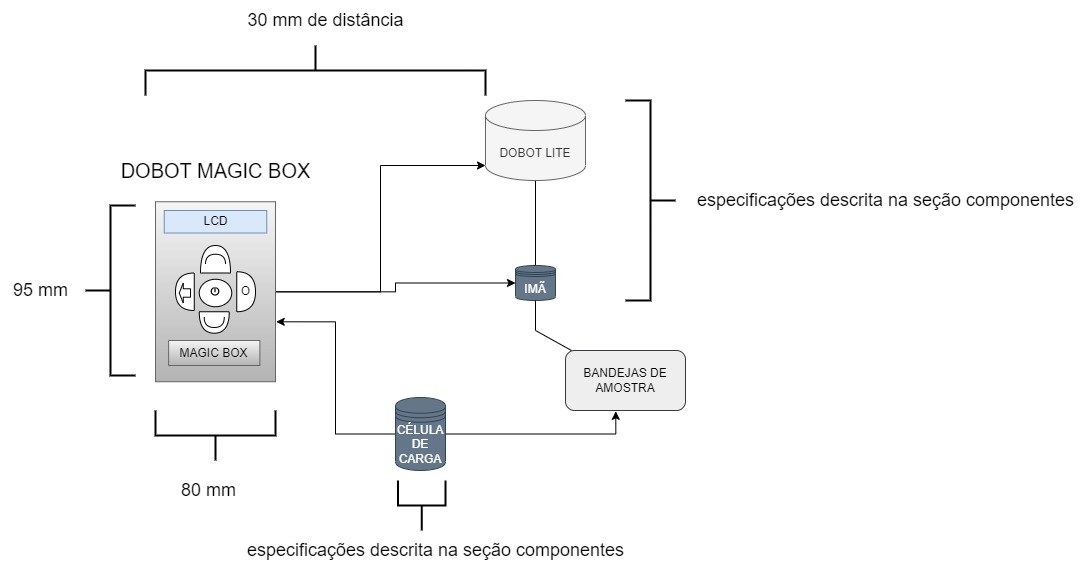
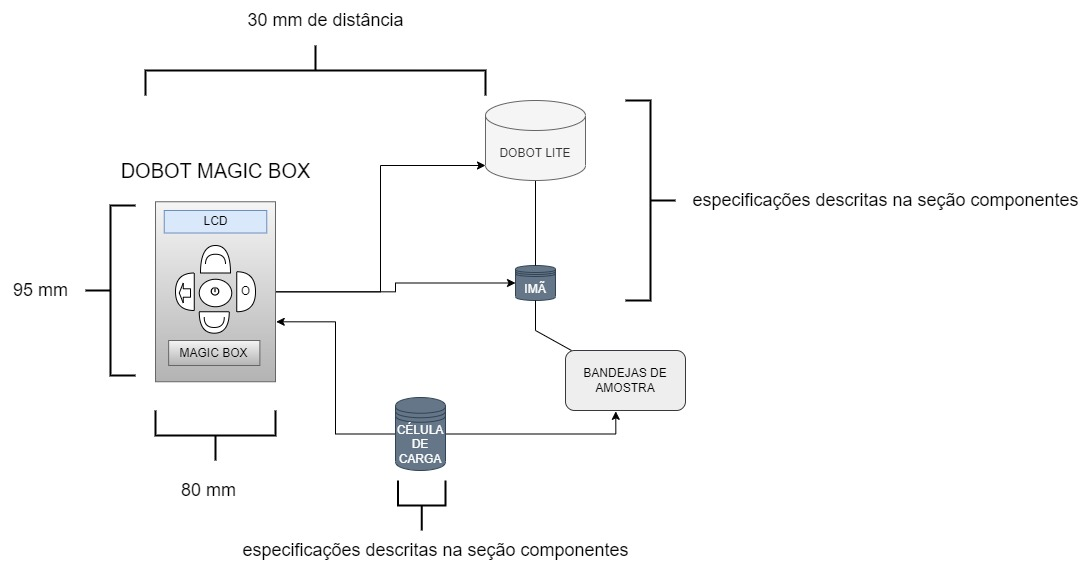
esquema_inter_definitivo
interface corrigida.

diff --git a/docs/index.md b/docs/index.md
@@ -305,7 +305,7 @@ A matriz de oceano Azul é uma análise feita sobre a empresa e a solução prop
 1. Eu, como engenheiro responsável pelo laboratório do IPT, desejo que a amostra analisada seja de maior confiabilidade do que possui hoje em dia.
 2. Eu, como engenheiro responsável pelo laboratório do IPT, desejo que a amostra seja analisada de maneira mais rápida para maior satisfação dos clientes.
 3. Eu, como engenheiro responsável pelo laboratório do IPT, desejo que a aplicação seja de fácil manutenção para não parar por muito tempo o atendimento dos clientes do laboratório.
-4. Eu, como engenheiro responsável pelo laboratório do IPT, desejo que a interface da aplicação seja simples e que eu consiga fazer todas as alterações possíveis por meio de uma tela LCD.
+4. Eu, como engenheiro responsável pelo laboratório do IPT, desejo que a interface da aplicação seja simples e que eu consiga fazer todas as alterações possíveis por meio do Magic Box.
 
 # Arquitetura do Sistema
 
@@ -576,6 +576,25 @@ O Magic Box atua como um microcontrolador capaz de rodar scripts que são inicia
 A conexão homem máquina da solução do grupo será realizada por meio do Magic Box, controle que faz parte do kit do Dobot Magician Lite, de modo que a interface se mantenha simples e prática, sem a necessidade de outros dispositivos ou acesso à internet para a visualização do status da aplicação. A entrada de dados será feita por meio de um script pré definido, esse que o usuário poderá carregar no Magic Box para iniciar a atuação do robô. Além disso, para ajuste da intensidade de corrente elétrica de acionamento do ímã, distância do braço do robô, assim como sua velocidade, somente será necessário o usuário carregar o script que melhor supra sua necessidade, tendo variações nesses três parâmetros.
 
 Dessa forma, a arquitetura da solução foi idealizada com o intuito de dar maior praticidade ao operador, com a interface completa acoplada ao robô, tendo apenas o cabo de conexão como única distância entre eles. Somado a isso, o grupo decidiu usar o controle como forma de alimentação do(s) ímã(s), além de servir como controlador e alimentação da célula de carga, responsável por realizar o cálculo que conclui a varredura do robô.
+
+<p align="center">
+  <img src="img/relatorio/interface_usuario.jpg" width="400px">
+  </p>
+  <br>
+
+
+   <b>Nota: Desenho do esquemático representativo fora de escala."</b>
+
+  - Função dos componentes presentes no esquemático:
+  
+  1. Magic Box: A função desse componente é ser o microcontrolador da solução, servindo tanto como alimentação da célula de carga, do(s) ímã(s), assim como interpretador das informações enviadas por esses componentes. Além disso, o Magic Box é responsável por carregar os scripts de Python para o DOBOT, executando a atuação variável  do braço dependente dos parâmetros do script. 
+    Por fim, o grupo pensa em terminar a atuação do robô quando a célula de carga, contida na terceira bandeja, não sofrer alteração na aferição, incumbindo ao Magic Box a responsabilidade de guardar o último valor e fazer a comparação entre o peso da terceira bendeja nas duas últimas varreduras.
+
+  2. DOBOT Magician Lite: A função principal do braço robótico é executar o código enviado pelo Magic Box, alterando a atuação dependente dos parâmetros descritos no script carregado.
+  
+  3. Eletroimã: A função desse componente é gerar o campo magnético responsável por atrair materiais magnéticos.
+
+  4. Célula de carga com módulo de peso: A função desse componente é enviar informações para o Magic Box sobre o peso depositado sobre ela.
 
 
 - Forma de uso da interface de usuário:
